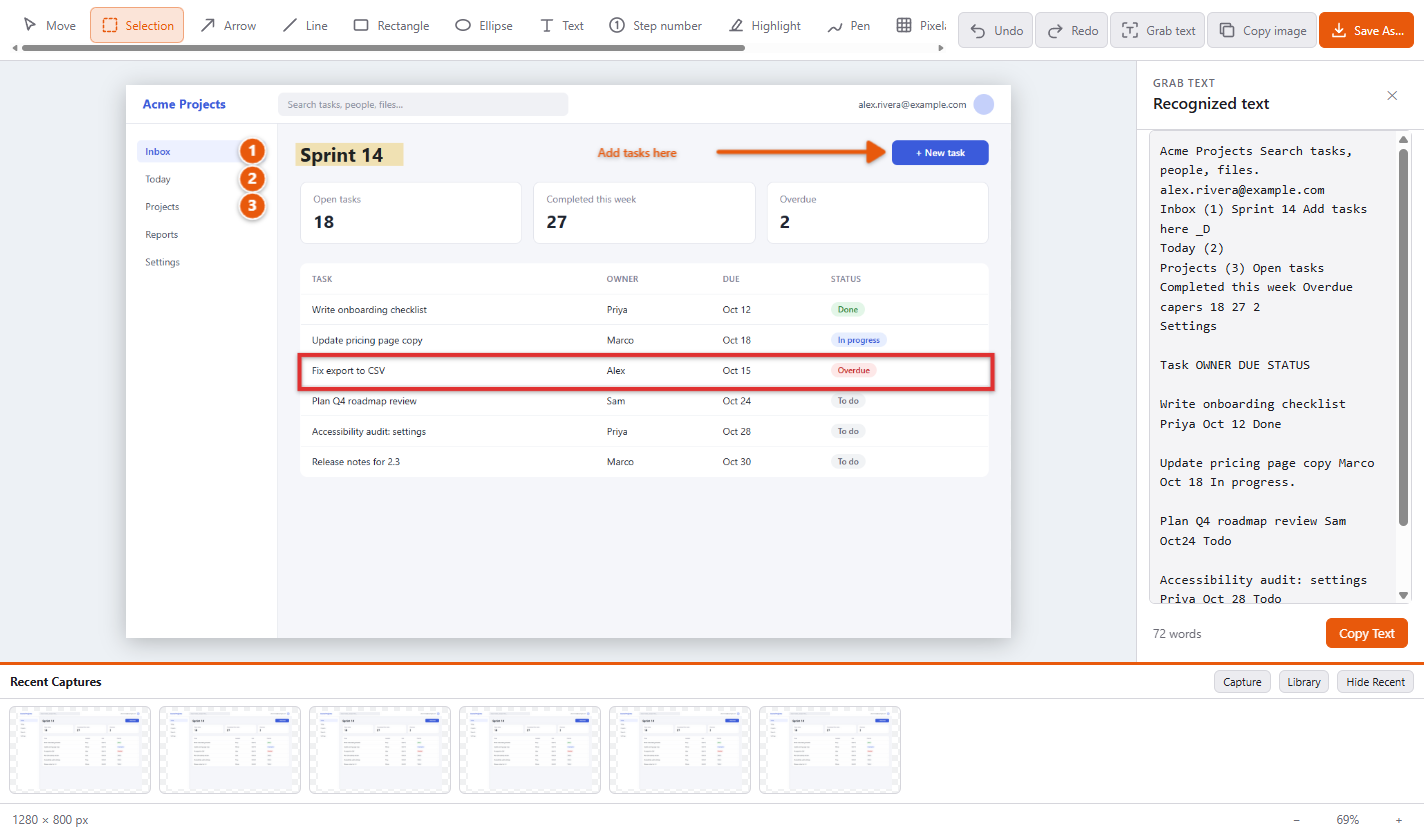
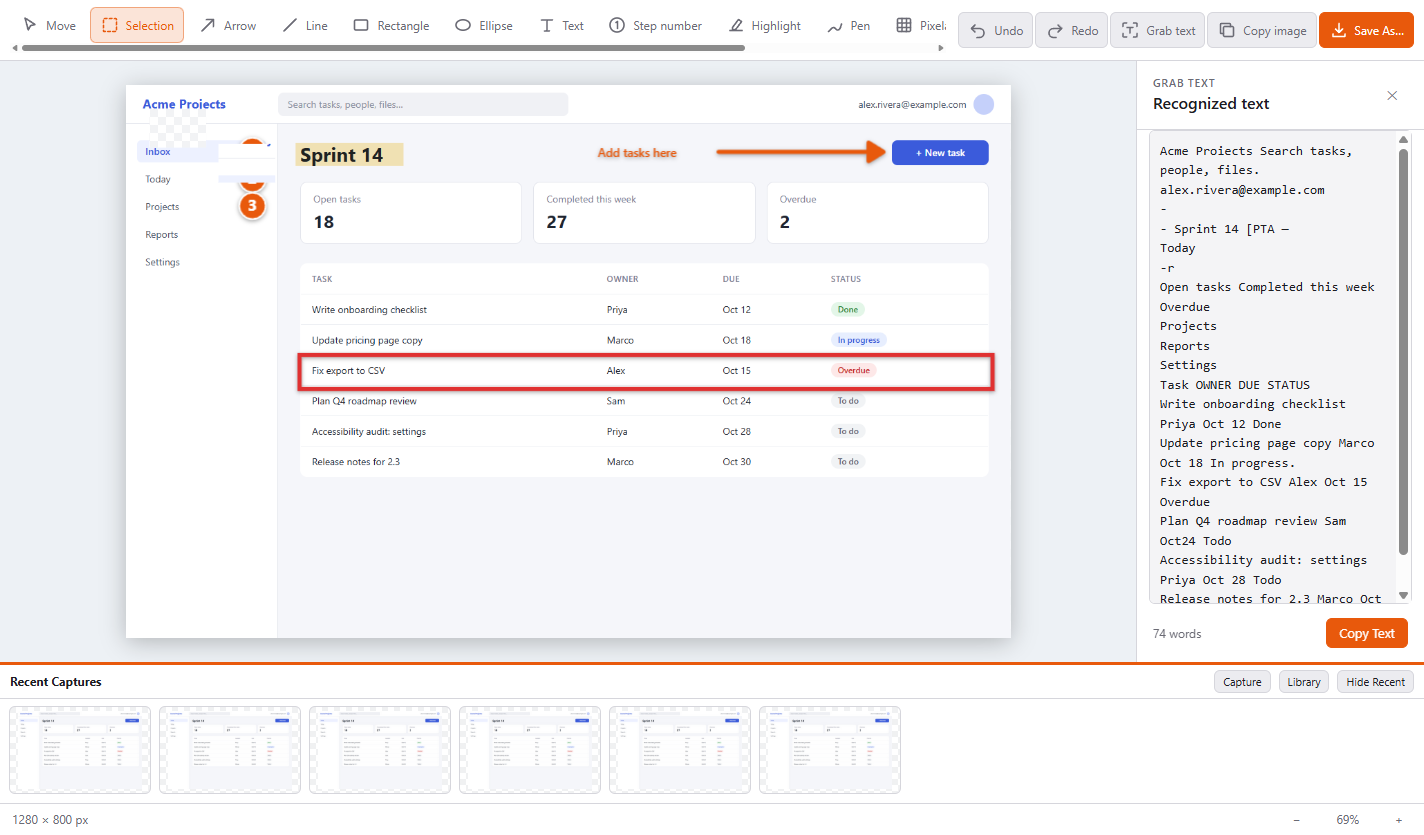
Make pixel selections movable and resizable

diff --git a/src/renderer/editor/tools.ts b/src/renderer/editor/tools.ts
@@ -103,7 +103,7 @@ export class Tools {
   tool: ToolName = 'arrow'
   private drag: { start: Point; obj: FabricObject | null } | null = null
   private cropBox: Rect | null = null
-  private pixelSelection: Rect | Ellipse | null = null
+  private pixelSelection: FabricImage | null = null
   selectionShape: 'rect' | 'ellipse' = 'rect'
   onCommit: () => void = () => undefined
   onCropChange: (active: boolean) => void = () => undefined
@@ -129,7 +129,6 @@ export class Tools {
   setTool(tool: ToolName): void {
     if (this.tool === 'crop' && tool !== 'crop') this.cancelCrop()
     if (this.tool === 'select' && tool !== 'select' && this.pixelSelection) {
-      this.doc.canvas.remove(this.pixelSelection)
       this.pixelSelection = null
     }
     this.tool = tool
@@ -223,7 +222,8 @@ export class Tools {
     const tool = this.tool
     if (tool === 'move' || tool === 'pen') return
     if (tool === 'select' && this.pixelSelection) {
-      this.doc.canvas.remove(this.pixelSelection)
+      if (o.target === this.pixelSelection) return
+      this.doc.canvas.discardActiveObject()
       this.pixelSelection = null
     }
     // Clicking an existing annotation selects/moves it instead of drawing.
@@ -382,8 +382,7 @@ export class Tools {
       return
     }
     if (this.tool === 'select') {
-      this.pixelSelection = obj as Rect | Ellipse
-      c.requestRenderAll()
+      void this.activatePixelSelection(obj as Rect | Ellipse)
       return
     }
     if (this.tool === 'redact') {
@@ -504,13 +503,12 @@ export class Tools {
 
   pixelSelectionData(): string | null {
     const box = this.pixelBox()
-    return box ? this.doc.selectionPixels(box, this.pixelSelection instanceof Ellipse) : null
+    return box ? this.doc.selectionPixels(box) : null
   }
 
   async deletePixelSelection(): Promise<boolean> {
     const box = this.pixelBox()
     if (!box) return false
-    await this.doc.eraseBackground(box, this.pixelSelection instanceof Ellipse)
     this.doc.canvas.remove(this.pixelSelection!)
     this.pixelSelection = null
     this.onCommit()
@@ -520,7 +518,6 @@ export class Tools {
   cropPixelSelection(): boolean {
     const box = this.pixelBox()
     if (!box) return false
-    this.doc.canvas.remove(this.pixelSelection!)
     this.pixelSelection = null
     this.doc.crop(box)
     this.onCommit()
@@ -535,5 +532,44 @@ export class Tools {
       width: this.pixelSelection.getScaledWidth(),
       height: this.pixelSelection.getScaledHeight()
     }
+  }
+
+  private async activatePixelSelection(guide: Rect | Ellipse): Promise<void> {
+    const c = this.doc.canvas
+    const box: Box = {
+      x: guide.left,
+      y: guide.top,
+      width: guide.getScaledWidth(),
+      height: guide.getScaledHeight()
+    }
+    const ellipse = guide instanceof Ellipse
+    c.remove(guide)
+    const source = this.doc.backgroundPixels(box)
+    if (ellipse) {
+      const clipped = document.createElement('canvas')
+      clipped.width = source.width
+      clipped.height = source.height
+      const ctx = clipped.getContext('2d')!
+      ctx.ellipse(clipped.width / 2, clipped.height / 2, clipped.width / 2, clipped.height / 2, 0, 0, Math.PI * 2)
+      ctx.clip()
+      ctx.drawImage(source, 0, 0)
+      source.getContext('2d')!.clearRect(0, 0, source.width, source.height)
+      source.getContext('2d')!.drawImage(clipped, 0, 0)
+    }
+    await this.doc.eraseBackground(box, ellipse)
+    const image = await FabricImage.fromURL(source.toDataURL('image/png'))
+    image.set({
+      left: box.x,
+      top: box.y,
+      snapKind: 'pixel',
+      snapAsset: this.doc.addAsset(source.toDataURL('image/png')),
+      borderDashArray: [6, 4]
+    } as Partial<FabricImage>)
+    c.add(image)
+    c.setActiveObject(image)
+    image.setCoords()
+    this.pixelSelection = image
+    c.requestRenderAll()
+    this.onCommit()
   }
 }

diff --git a/src/renderer/editor/main.ts b/src/renderer/editor/main.ts
@@ -156,7 +156,10 @@ tools.onCommit = () => {
   history.commit()
   markDirty()
 }
-doc.canvas.on('object:modified', tools.onCommit)
+doc.canvas.on('object:modified', () => {
+  tools.onCommit()
+  updateProperties()
+})
 doc.canvas.on('selection:created', updateProperties)
 doc.canvas.on('selection:updated', updateProperties)
 doc.canvas.on('selection:cleared', updateProperties)

diff --git a/src/renderer/editor/doc.ts b/src/renderer/editor/doc.ts
@@ -39,6 +39,7 @@ export type SnapKind =
   | 'pen'
   | 'redact'
   | 'block'
+  | 'pixel'
 
 export interface DocState {
   width: number

diff --git a/docs/editor-roadmap.md b/docs/editor-roadmap.md
@@ -30,7 +30,7 @@ Markcraft now opens with a dedicated capture window, and the tray icon restores 
 
 Markcraft keeps the Editor and Library mutually exclusive. Opening the Library closes the Editor; opening a Library item or choosing Back to Editor closes the Library and restores one Editor window. Recent-strip items still replace the current document in place, reset its undo history and update the active thumbnail.
 
-Selection work has begun by separating annotation **Move** from pixel **Selection**. Rectangle and ellipse pixel selections support Copy, Cut, Delete-to-transparency and Crop, with background edits stored in undo/redo history. Polygon, freehand, multiple/inverted selections, moving selected pixels and content-aware Auto-Fill remain in the next selection milestones.
+Selection work has begun by separating annotation **Move** from pixel **Selection**. Rectangle and ellipse pixel selections lift pixels into a movable, resizable layer with eight handles and support Copy, Cut, Delete-to-transparency and Crop. Background, movement and resizing edits are stored in undo/redo history. Polygon, freehand, multiple/inverted selections and content-aware Auto-Fill remain in the next selection milestones.
 
 Validation for this milestone passed on October 19, 2026: TypeScript checking, all seven unit tests, the production build, the native Electron editor smoke test, and screenshot generation. The smoke test covered drawing, undo/redo, exact crop dimensions, editable document saving, and burned-in redactions. Updated editor, OCR and selection screenshots are stored in `docs/screenshots/`.
 
